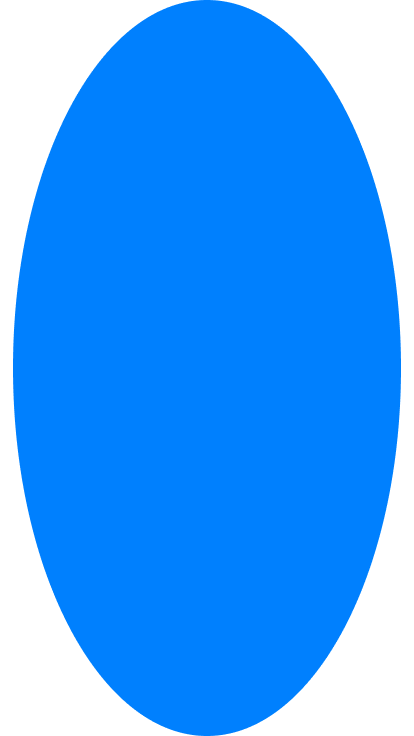
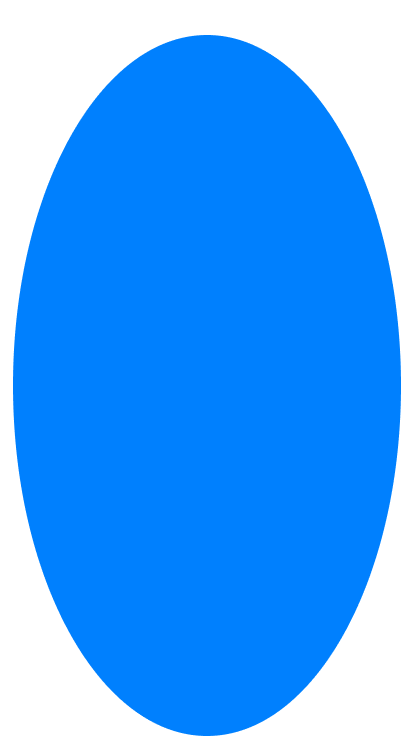
commited

diff --git a/src/Pages/LoginPage.js b/src/Pages/LoginPage.js
@@ -26,12 +26,12 @@ const LoginPage = () => {
                 source={
                     Dimensions.get('screen').height > 800 ?
                         require('../images/background-ellipse.png') :
-                        require('../images/background-ellipse4.png')
+                        require('../images/background-ellipse5.png')
                 }
                 width={'100%'}
                 height={Dimensions.get('screen').height > 800 ?
-                    Dimensions.get('screen').height / 1.2:
-                    Dimensions.get('screen').height
+                    Dimensions.get('screen').height / 1.2 :
+                    Dimensions.get('screen').height/1.2
                 }
             />
             {/*<ImageBackground source={require('../images/background-ellipse.png')} style={{

diff --git a/src/Components/InputComponent.js b/src/Components/InputComponent.js
@@ -5,7 +5,7 @@ const InputComponent = props => {
         <TextInput
             style={{
                 height: 40,
-                width: '85%',
+                width: '80%',
                 borderColor: 'gray',
                 backgroundColor: '#fff',
                 borderRadius: 5,
